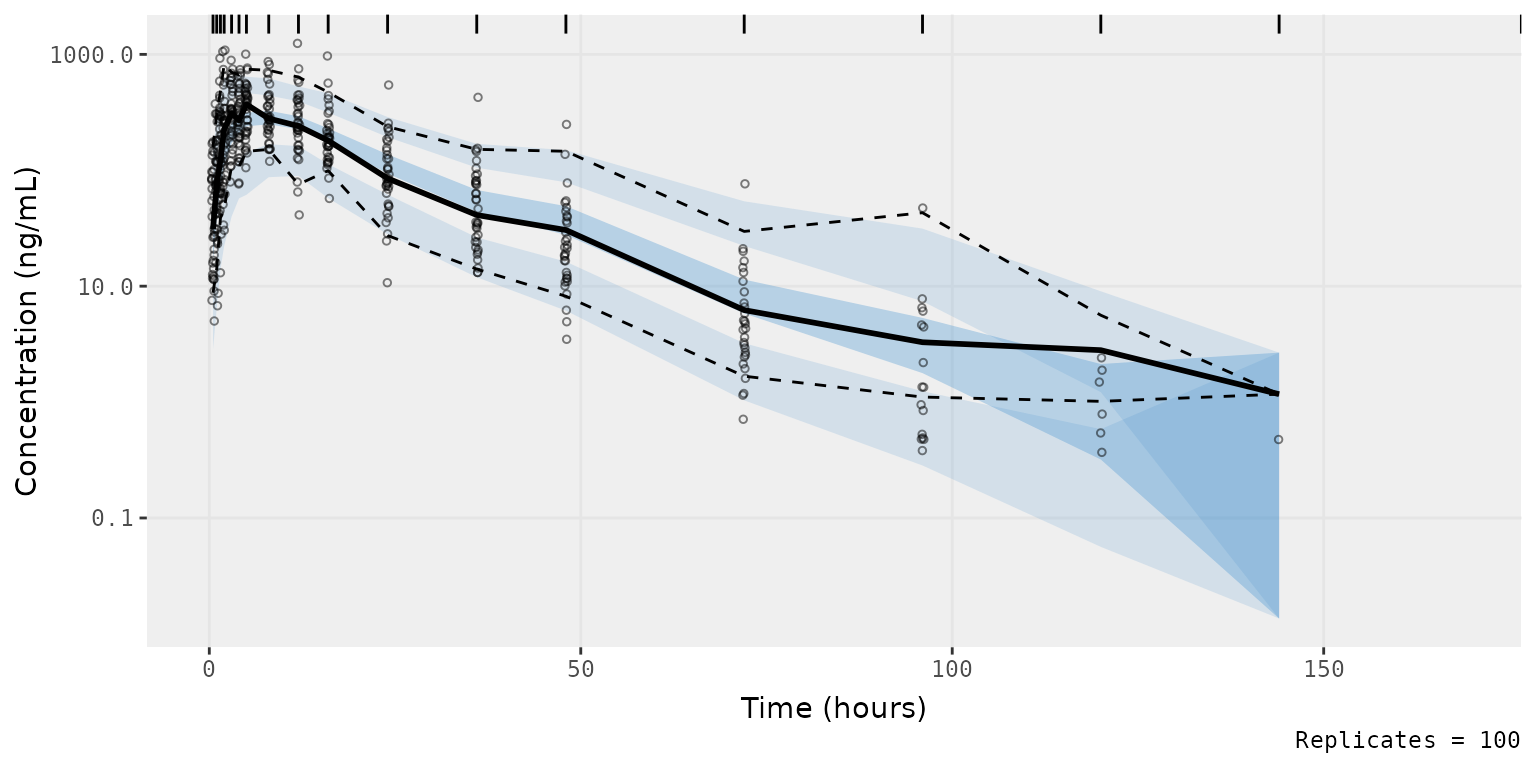
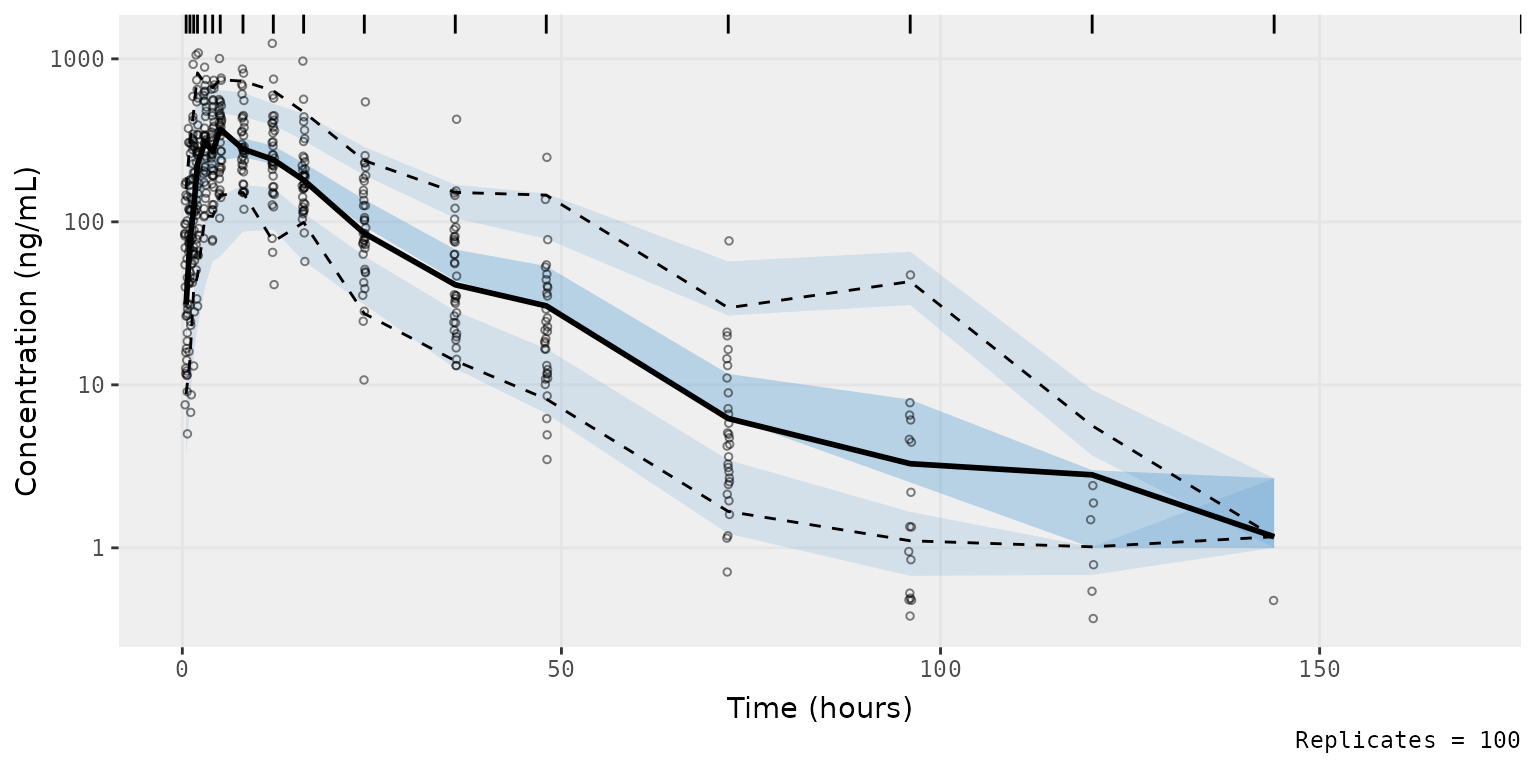
Deploying to gh-pages from @ ryancrass/pmxhelpr@53b15091019a067401276e631ab8a563660facfa 🚀

diff --git a/articles/vpc-obs-quant-blq-cens.html b/articles/vpc-obs-quant-blq-cens.html
@@ -5,12 +5,12 @@
 <meta charset="utf-8">
 <meta http-equiv="X-UA-Compatible" content="IE=edge">
 <meta name="viewport" content="width=device-width, initial-scale=1, shrink-to-fit=no">
-<title>VPC Plots with BLQ Censoring of Obseorved Quantiles • pmxhelpr</title>
+<title>VPC Plots with BLQ Censoring • pmxhelpr</title>
 <script src="../deps/jquery-3.6.0/jquery-3.6.0.min.js"></script><meta name="viewport" content="width=device-width, initial-scale=1, shrink-to-fit=no">
 <link href="../deps/bootstrap-5.3.1/bootstrap.min.css" rel="stylesheet">
 <script src="../deps/bootstrap-5.3.1/bootstrap.bundle.min.js"></script><link href="../deps/font-awesome-6.4.2/css/all.min.css" rel="stylesheet">
 <link href="../deps/font-awesome-6.4.2/css/v4-shims.min.css" rel="stylesheet">
-<script src="../deps/headroom-0.11.0/headroom.min.js"></script><script src="../deps/headroom-0.11.0/jQuery.headroom.min.js"></script><script src="../deps/bootstrap-toc-1.0.1/bootstrap-toc.min.js"></script><script src="../deps/clipboard.js-2.0.11/clipboard.min.js"></script><script src="../deps/search-1.0.0/autocomplete.jquery.min.js"></script><script src="../deps/search-1.0.0/fuse.min.js"></script><script src="../deps/search-1.0.0/mark.min.js"></script><!-- pkgdown --><script src="../pkgdown.js"></script><meta property="og:title" content="VPC Plots with BLQ Censoring of Obseorved Quantiles">
+<script src="../deps/headroom-0.11.0/headroom.min.js"></script><script src="../deps/headroom-0.11.0/jQuery.headroom.min.js"></script><script src="../deps/bootstrap-toc-1.0.1/bootstrap-toc.min.js"></script><script src="../deps/clipboard.js-2.0.11/clipboard.min.js"></script><script src="../deps/search-1.0.0/autocomplete.jquery.min.js"></script><script src="../deps/search-1.0.0/fuse.min.js"></script><script src="../deps/search-1.0.0/mark.min.js"></script><!-- pkgdown --><script src="../pkgdown.js"></script><meta property="og:title" content="VPC Plots with BLQ Censoring">
 </head>
 <body>
     <a href="#main" class="visually-hidden-focusable">Skip to contents</a>
@@ -20,7 +20,7 @@
 
     <a class="navbar-brand me-2" href="../index.html">pmxhelpr</a>
 
-    <small class="nav-text text-muted me-auto" data-bs-toggle="tooltip" data-bs-placement="bottom" title="">0.0.2.9004</small>
+    <small class="nav-text text-muted me-auto" data-bs-toggle="tooltip" data-bs-placement="bottom" title="">0.0.2.9005</small>
 
 
     <button class="navbar-toggler" type="button" data-bs-toggle="collapse" data-bs-target="#navbar" aria-controls="navbar" aria-expanded="false" aria-label="Toggle navigation">
@@ -34,7 +34,7 @@
   <button class="nav-link dropdown-toggle" type="button" id="dropdown-articles" data-bs-toggle="dropdown" aria-expanded="false" aria-haspopup="true">Articles</button>
   <ul class="dropdown-menu" aria-labelledby="dropdown-articles">
 <li><a class="dropdown-item" href="../articles/vpc-exact-bins.html">VPC Plots with Exact Bins</a></li>
-    <li><a class="dropdown-item" href="../articles/vpc-obs-quant-blq-cens.html">VPC Plots with BLQ Censoring of Obseorved Quantiles</a></li>
+    <li><a class="dropdown-item" href="../articles/vpc-obs-quant-blq-cens.html">VPC Plots with BLQ Censoring</a></li>
   </ul>
 </li>
 <li class="nav-item"><a class="nav-link" href="../news/index.html">Changelog</a></li>
@@ -56,7 +56,7 @@
 
 <div class="row">
   <main id="main" class="col-md-9"><div class="page-header">
-      <img src="../logo.png" class="logo" alt=""><h1>VPC Plots with BLQ Censoring of Obseorved Quantiles</h1>
+      <img src="../logo.png" class="logo" alt=""><h1>VPC Plots with BLQ Censoring</h1>
             
       
       <small class="dont-index">Source: <a href="https://github.com/ryancrass/pmxhelpr/blob/main/vignettes/vpc-obs-quant-blq-cens.Rmd" class="external-link"><code>vignettes/vpc-obs-quant-blq-cens.Rmd</code></a></small>
@@ -370,8 +370,9 @@ known to the pharmacometrician. Additionally, this method of accounting
 for the censoring of data below the LLOQ by specifying the
 <code>loq</code> argument should only be applied to Visual Predictive
 Checks (<code>pcvpc = FALSE</code>), not Prediction-corrected Visual
-Predictive Checks (<code>pcvpc = TRUE</code>), as noted in the
-documentation for the <code>vpc</code> package.</p>
+Predictive Checks (<code>pcvpc = TRUE</code>).</p>
+<p>If<code>loq</code> is specified with a<code>pcvpc = TRUE</code>, an
+error message will print from <code><a href="https://rdrr.io/pkg/vpc/man/vpc.html" class="external-link">vpc::vpc()</a></code>.</p>
 <div class="sourceCode" id="cb14"><pre class="downlit sourceCode r">
 <code class="sourceCode R"><span><span class="va">vpc_pc</span> <span class="op">&lt;-</span> <span class="fu"><a href="../reference/plot_vpc_exactbins.html">plot_vpc_exactbins</a></span><span class="op">(</span></span>
 <span>  sim <span class="op">=</span> <span class="va">simout</span>, </span>
@@ -382,8 +383,13 @@ documentation for the <code>vpc</code> package.</p>
 <span>  log_y <span class="op">=</span> <span class="cn">TRUE</span>,</span>
 <span>  xlab <span class="op">=</span> <span class="st">"Time (hours)"</span>,</span>
 <span>  ylab <span class="op">=</span> <span class="st">"Concentration (ng/mL)"</span>,</span>
-<span>  pcvpc <span class="op">=</span> <span class="cn">TRUE</span></span>
+<span>  pcvpc <span class="op">=</span> <span class="cn">TRUE</span>,</span>
+<span>  loq <span class="op">=</span> <span class="fl">1</span></span>
 <span><span class="op">)</span></span>
+<span><span class="co">#&gt; Joining with `by = join_by(NTIME)`</span></span>
+<span><span class="co">#&gt; Joining with `by = join_by(NTIME)`</span></span>
+<span><span class="co">#&gt; Prediction-correction cannot be used together with censored data (&lt;LLOQ or</span></span>
+<span><span class="co">#&gt; &gt;ULOQ). VPC plot will be shown for non-censored data only!</span></span>
 <span></span>
 <span><span class="va">vpc_pc</span></span></code></pre></div>
 <p><img src="vpc-obs-quant-blq-cens_files/figure-html/plot-vpc-pcvpc-1.png" width="768"></p>

diff --git a/news/index.html b/news/index.html
@@ -7,7 +7,7 @@
 
     <a class="navbar-brand me-2" href="../index.html">pmxhelpr</a>
 
-    <small class="nav-text text-muted me-auto" data-bs-toggle="tooltip" data-bs-placement="bottom" title="">0.0.2.9004</small>
+    <small class="nav-text text-muted me-auto" data-bs-toggle="tooltip" data-bs-placement="bottom" title="">0.0.2.9005</small>
 
 
     <button class="navbar-toggler" type="button" data-bs-toggle="collapse" data-bs-target="#navbar" aria-controls="navbar" aria-expanded="false" aria-label="Toggle navigation">
@@ -19,7 +19,7 @@
 <li class="nav-item dropdown">
   <button class="nav-link dropdown-toggle" type="button" id="dropdown-articles" data-bs-toggle="dropdown" aria-expanded="false" aria-haspopup="true">Articles</button>
   <ul class="dropdown-menu" aria-labelledby="dropdown-articles"><li><a class="dropdown-item" href="../articles/vpc-exact-bins.html">VPC Plots with Exact Bins</a></li>
-    <li><a class="dropdown-item" href="../articles/vpc-obs-quant-blq-cens.html">VPC Plots with BLQ Censoring of Obseorved Quantiles</a></li>
+    <li><a class="dropdown-item" href="../articles/vpc-obs-quant-blq-cens.html">VPC Plots with BLQ Censoring</a></li>
   </ul></li>
 <li class="active nav-item"><a class="nav-link" href="../news/index.html">Changelog</a></li>
       </ul><ul class="navbar-nav"><li class="nav-item"><form class="form-inline" role="search">
@@ -38,13 +38,14 @@
 
     <div class="section level2">
 <h2 class="pkg-version" data-toc-text="development version" id="pmxhelpr-development-version">pmxhelpr (development version)<a class="anchor" aria-label="anchor" href="#pmxhelpr-development-version"></a></h2>
-<ul><li>Additional functionality for <code>plot_vpc_exactbins</code>
+<ul><li>
+<p>Additional functionality for <code>plot_vpc_exactbins</code></p>
 <ul><li>
 <code>shown</code> argument added to facilitate customization of which layers are shown in the plot and standardize with new function <code>plot_legend</code>. Passed to <code>show</code> argument of <code><a href="https://rdrr.io/pkg/vpc/man/vpc.html" class="external-link">vpc::vpc()</a></code>
 </li>
 </ul></li>
-<li>
-<code>plot_legend</code> helper function to generate a legend for a VPC plot generated using <code><a href="../reference/plot_vpc_exactbins.html">plot_vpc_exactbins()</a></code>, which can be combined with the VPC plot using the <code>patchwork</code> package</li>
+<li><p><code>plot_legend</code> helper function to generate a legend for a VPC plot generated using <code><a href="../reference/plot_vpc_exactbins.html">plot_vpc_exactbins()</a></code>, which can be combined with the VPC plot using the <code>patchwork</code> package</p></li>
+<li><p><code>VPC Plots with BLQ Censoring</code> vignette demonstrating appropriate handling of data missing due to assay sensitivity (below the lower limit of quantification) using <code><a href="../reference/plot_vpc_exactbins.html">plot_vpc_exactbins()</a></code> and workflow leveraging <code>df_mrgsim_replicate</code>.</p></li>
 </ul></div>
     <div class="section level2">
 <h2 class="pkg-version" data-toc-text="0.0.2" id="pmxhelpr-002">pmxhelpr 0.0.2<a class="anchor" aria-label="anchor" href="#pmxhelpr-002"></a></h2>
@@ -57,16 +58,12 @@
 </ul></div>
     <div class="section level2">
 <h2 class="pkg-version" data-toc-text="0.0.1" id="pmxhelpr-001">pmxhelpr 0.0.1<a class="anchor" aria-label="anchor" href="#pmxhelpr-001"></a></h2>
-<ul><li>
-<code>data_sad</code> NONMEM and mrgsolve analysis-ready dataset for a hypothetical SAD study with assessment of food effect.</li>
-<li>
-<code>model</code> mrgsolve model file (class <code>mrgmod</code>) in the internal pmxhelpr model library .</li>
-<li>
-<code>model_load</code> function to load internal models from the pmxhelpr model library.</li>
-<li>
-<code>df_mrgsim_replicate</code> mrgsim wrapper function to run a simulation that replicates the input dataset multiple times, intended for application to generating Visual Predictive Check (VPC) simulation-based model diagnostics.</li>
-<li>
-<code>plot_vpc_exactbins</code> vpc wrapper function to using an exact time binning variable in the input dataset (e.g. nominal time) with plotting of observed data points using actual time.</li>
+<ul><li><p><code>data_sad</code> NONMEM and mrgsolve analysis-ready dataset for a hypothetical SAD study with assessment of food effect.</p></li>
+<li><p><code>model</code> mrgsolve model file (class <code>mrgmod</code>) in the internal pmxhelpr model library .</p></li>
+<li><p><code>model_load</code> function to load internal models from the pmxhelpr model library.</p></li>
+<li><p><code>df_mrgsim_replicate</code> mrgsim wrapper function to run a simulation that replicates the input dataset multiple times, intended for application to generating Visual Predictive Check (VPC) simulation-based model diagnostics.</p></li>
+<li><p><code>plot_vpc_exactbins</code> vpc wrapper function to using an exact time binning variable in the input dataset (e.g. nominal time) with plotting of observed data points using actual time.</p></li>
+<li><p><code>VPC Plots with Exact Bins</code> vignette demostrating use case for <code><a href="../reference/plot_vpc_exactbins.html">plot_vpc_exactbins()</a></code> and workflow leveraging <code>df_mrgsim_replicate</code>.</p></li>
 </ul></div>
   </main><aside class="col-md-3"><nav id="toc" aria-label="Table of contents"><h2>On this page</h2>
     </nav></aside></div>

diff --git a/articles/index.html b/articles/index.html
@@ -7,7 +7,7 @@
 
     <a class="navbar-brand me-2" href="../index.html">pmxhelpr</a>
 
-    <small class="nav-text text-muted me-auto" data-bs-toggle="tooltip" data-bs-placement="bottom" title="">0.0.2.9004</small>
+    <small class="nav-text text-muted me-auto" data-bs-toggle="tooltip" data-bs-placement="bottom" title="">0.0.2.9005</small>
 
 
     <button class="navbar-toggler" type="button" data-bs-toggle="collapse" data-bs-target="#navbar" aria-controls="navbar" aria-expanded="false" aria-label="Toggle navigation">
@@ -19,7 +19,7 @@
 <li class="nav-item dropdown">
   <button class="nav-link dropdown-toggle" type="button" id="dropdown-articles" data-bs-toggle="dropdown" aria-expanded="false" aria-haspopup="true">Articles</button>
   <ul class="dropdown-menu" aria-labelledby="dropdown-articles"><li><a class="dropdown-item" href="../articles/vpc-exact-bins.html">VPC Plots with Exact Bins</a></li>
-    <li><a class="dropdown-item" href="../articles/vpc-obs-quant-blq-cens.html">VPC Plots with BLQ Censoring of Obseorved Quantiles</a></li>
+    <li><a class="dropdown-item" href="../articles/vpc-obs-quant-blq-cens.html">VPC Plots with BLQ Censoring</a></li>
   </ul></li>
 <li class="nav-item"><a class="nav-link" href="../news/index.html">Changelog</a></li>
       </ul><ul class="navbar-nav"><li class="nav-item"><form class="form-inline" role="search">
@@ -41,7 +41,7 @@
 
       <dl><dt><a href="vpc-exact-bins.html">VPC Plots with Exact Bins</a></dt>
         <dd>
-        </dd><dt><a href="vpc-obs-quant-blq-cens.html">VPC Plots with BLQ Censoring of Obseorved Quantiles</a></dt>
+        </dd><dt><a href="vpc-obs-quant-blq-cens.html">VPC Plots with BLQ Censoring</a></dt>
         <dd>
       </dd></dl></div>
   </main></div>

diff --git a/reference/df_addpred.html b/reference/df_addpred.html
@@ -11,7 +11,7 @@ a data.frame with the addition of a new variable (PRED)."><meta property="og:ima
 
     <a class="navbar-brand me-2" href="../index.html">pmxhelpr</a>
 
-    <small class="nav-text text-muted me-auto" data-bs-toggle="tooltip" data-bs-placement="bottom" title="">0.0.2.9004</small>
+    <small class="nav-text text-muted me-auto" data-bs-toggle="tooltip" data-bs-placement="bottom" title="">0.0.2.9005</small>
 
 
     <button class="navbar-toggler" type="button" data-bs-toggle="collapse" data-bs-target="#navbar" aria-controls="navbar" aria-expanded="false" aria-label="Toggle navigation">
@@ -23,7 +23,7 @@ a data.frame with the addition of a new variable (PRED)."><meta property="og:ima
 <li class="nav-item dropdown">
   <button class="nav-link dropdown-toggle" type="button" id="dropdown-articles" data-bs-toggle="dropdown" aria-expanded="false" aria-haspopup="true">Articles</button>
   <ul class="dropdown-menu" aria-labelledby="dropdown-articles"><li><a class="dropdown-item" href="../articles/vpc-exact-bins.html">VPC Plots with Exact Bins</a></li>
-    <li><a class="dropdown-item" href="../articles/vpc-obs-quant-blq-cens.html">VPC Plots with BLQ Censoring of Obseorved Quantiles</a></li>
+    <li><a class="dropdown-item" href="../articles/vpc-obs-quant-blq-cens.html">VPC Plots with BLQ Censoring</a></li>
   </ul></li>
 <li class="nav-item"><a class="nav-link" href="../news/index.html">Changelog</a></li>
       </ul><ul class="navbar-nav"><li class="nav-item"><form class="form-inline" role="search">

diff --git a/reference/df_mrgsim_replicate.html b/reference/df_mrgsim_replicate.html
@@ -9,7 +9,7 @@ that returns a data.frame containing replicates iterations of data"><meta proper
 
     <a class="navbar-brand me-2" href="../index.html">pmxhelpr</a>
 
-    <small class="nav-text text-muted me-auto" data-bs-toggle="tooltip" data-bs-placement="bottom" title="">0.0.2.9004</small>
+    <small class="nav-text text-muted me-auto" data-bs-toggle="tooltip" data-bs-placement="bottom" title="">0.0.2.9005</small>
 
 
     <button class="navbar-toggler" type="button" data-bs-toggle="collapse" data-bs-target="#navbar" aria-controls="navbar" aria-expanded="false" aria-label="Toggle navigation">
@@ -21,7 +21,7 @@ that returns a data.frame containing replicates iterations of data"><meta proper
 <li class="nav-item dropdown">
   <button class="nav-link dropdown-toggle" type="button" id="dropdown-articles" data-bs-toggle="dropdown" aria-expanded="false" aria-haspopup="true">Articles</button>
   <ul class="dropdown-menu" aria-labelledby="dropdown-articles"><li><a class="dropdown-item" href="../articles/vpc-exact-bins.html">VPC Plots with Exact Bins</a></li>
-    <li><a class="dropdown-item" href="../articles/vpc-obs-quant-blq-cens.html">VPC Plots with BLQ Censoring of Obseorved Quantiles</a></li>
+    <li><a class="dropdown-item" href="../articles/vpc-obs-quant-blq-cens.html">VPC Plots with BLQ Censoring</a></li>
   </ul></li>
 <li class="nav-item"><a class="nav-link" href="../news/index.html">Changelog</a></li>
       </ul><ul class="navbar-nav"><li class="nav-item"><form class="form-inline" role="search">

diff --git a/reference/df_nobsbin.html b/reference/df_nobsbin.html
@@ -9,7 +9,7 @@ and non-missing observations in exact bins."><meta property="og:image" content="
 
     <a class="navbar-brand me-2" href="../index.html">pmxhelpr</a>
 
-    <small class="nav-text text-muted me-auto" data-bs-toggle="tooltip" data-bs-placement="bottom" title="">0.0.2.9004</small>
+    <small class="nav-text text-muted me-auto" data-bs-toggle="tooltip" data-bs-placement="bottom" title="">0.0.2.9005</small>
 
 
     <button class="navbar-toggler" type="button" data-bs-toggle="collapse" data-bs-target="#navbar" aria-controls="navbar" aria-expanded="false" aria-label="Toggle navigation">
@@ -21,7 +21,7 @@ and non-missing observations in exact bins."><meta property="og:image" content="
 <li class="nav-item dropdown">
   <button class="nav-link dropdown-toggle" type="button" id="dropdown-articles" data-bs-toggle="dropdown" aria-expanded="false" aria-haspopup="true">Articles</button>
   <ul class="dropdown-menu" aria-labelledby="dropdown-articles"><li><a class="dropdown-item" href="../articles/vpc-exact-bins.html">VPC Plots with Exact Bins</a></li>
-    <li><a class="dropdown-item" href="../articles/vpc-obs-quant-blq-cens.html">VPC Plots with BLQ Censoring of Obseorved Quantiles</a></li>
+    <li><a class="dropdown-item" href="../articles/vpc-obs-quant-blq-cens.html">VPC Plots with BLQ Censoring</a></li>
   </ul></li>
 <li class="nav-item"><a class="nav-link" href="../news/index.html">Changelog</a></li>
       </ul><ul class="navbar-nav"><li class="nav-item"><form class="form-inline" role="search">

diff --git a/reference/df_pcdv.html b/reference/df_pcdv.html
@@ -9,7 +9,7 @@ of observed or simulated depedent variables."><meta property="og:image" content=
 
     <a class="navbar-brand me-2" href="../index.html">pmxhelpr</a>
 
-    <small class="nav-text text-muted me-auto" data-bs-toggle="tooltip" data-bs-placement="bottom" title="">0.0.2.9004</small>
+    <small class="nav-text text-muted me-auto" data-bs-toggle="tooltip" data-bs-placement="bottom" title="">0.0.2.9005</small>
 
 
     <button class="navbar-toggler" type="button" data-bs-toggle="collapse" data-bs-target="#navbar" aria-controls="navbar" aria-expanded="false" aria-label="Toggle navigation">
@@ -21,7 +21,7 @@ of observed or simulated depedent variables."><meta property="og:image" content=
 <li class="nav-item dropdown">
   <button class="nav-link dropdown-toggle" type="button" id="dropdown-articles" data-bs-toggle="dropdown" aria-expanded="false" aria-haspopup="true">Articles</button>
   <ul class="dropdown-menu" aria-labelledby="dropdown-articles"><li><a class="dropdown-item" href="../articles/vpc-exact-bins.html">VPC Plots with Exact Bins</a></li>
-    <li><a class="dropdown-item" href="../articles/vpc-obs-quant-blq-cens.html">VPC Plots with BLQ Censoring of Obseorved Quantiles</a></li>
+    <li><a class="dropdown-item" href="../articles/vpc-obs-quant-blq-cens.html">VPC Plots with BLQ Censoring</a></li>
   </ul></li>
 <li class="nav-item"><a class="nav-link" href="../news/index.html">Changelog</a></li>
       </ul><ul class="navbar-nav"><li class="nav-item"><form class="form-inline" role="search">

diff --git a/reference/model_mread_load.html b/reference/model_mread_load.html
@@ -9,7 +9,7 @@ model library in pmxhelpr"><meta property="og:image" content="https://ryancrass.
 
     <a class="navbar-brand me-2" href="../index.html">pmxhelpr</a>
 
-    <small class="nav-text text-muted me-auto" data-bs-toggle="tooltip" data-bs-placement="bottom" title="">0.0.2.9004</small>
+    <small class="nav-text text-muted me-auto" data-bs-toggle="tooltip" data-bs-placement="bottom" title="">0.0.2.9005</small>
 
 
     <button class="navbar-toggler" type="button" data-bs-toggle="collapse" data-bs-target="#navbar" aria-controls="navbar" aria-expanded="false" aria-label="Toggle navigation">
@@ -21,7 +21,7 @@ model library in pmxhelpr"><meta property="og:image" content="https://ryancrass.
 <li class="nav-item dropdown">
   <button class="nav-link dropdown-toggle" type="button" id="dropdown-articles" data-bs-toggle="dropdown" aria-expanded="false" aria-haspopup="true">Articles</button>
   <ul class="dropdown-menu" aria-labelledby="dropdown-articles"><li><a class="dropdown-item" href="../articles/vpc-exact-bins.html">VPC Plots with Exact Bins</a></li>
-    <li><a class="dropdown-item" href="../articles/vpc-obs-quant-blq-cens.html">VPC Plots with BLQ Censoring of Obseorved Quantiles</a></li>
+    <li><a class="dropdown-item" href="../articles/vpc-obs-quant-blq-cens.html">VPC Plots with BLQ Censoring</a></li>
   </ul></li>
 <li class="nav-item"><a class="nav-link" href="../news/index.html">Changelog</a></li>
       </ul><ul class="navbar-nav"><li class="nav-item"><form class="form-inline" role="search">

diff --git a/reference/plot_vpc_exactbins.html b/reference/plot_vpc_exactbins.html
@@ -9,7 +9,7 @@ that returns a ggplot2 object."><meta property="og:image" content="https://ryanc
 
     <a class="navbar-brand me-2" href="../index.html">pmxhelpr</a>
 
-    <small class="nav-text text-muted me-auto" data-bs-toggle="tooltip" data-bs-placement="bottom" title="">0.0.2.9004</small>
+    <small class="nav-text text-muted me-auto" data-bs-toggle="tooltip" data-bs-placement="bottom" title="">0.0.2.9005</small>
 
 
     <button class="navbar-toggler" type="button" data-bs-toggle="collapse" data-bs-target="#navbar" aria-controls="navbar" aria-expanded="false" aria-label="Toggle navigation">
@@ -21,7 +21,7 @@ that returns a ggplot2 object."><meta property="og:image" content="https://ryanc
 <li class="nav-item dropdown">
   <button class="nav-link dropdown-toggle" type="button" id="dropdown-articles" data-bs-toggle="dropdown" aria-expanded="false" aria-haspopup="true">Articles</button>
   <ul class="dropdown-menu" aria-labelledby="dropdown-articles"><li><a class="dropdown-item" href="../articles/vpc-exact-bins.html">VPC Plots with Exact Bins</a></li>
-    <li><a class="dropdown-item" href="../articles/vpc-obs-quant-blq-cens.html">VPC Plots with BLQ Censoring of Obseorved Quantiles</a></li>
+    <li><a class="dropdown-item" href="../articles/vpc-obs-quant-blq-cens.html">VPC Plots with BLQ Censoring</a></li>
   </ul></li>
 <li class="nav-item"><a class="nav-link" href="../news/index.html">Changelog</a></li>
       </ul><ul class="navbar-nav"><li class="nav-item"><form class="form-inline" role="search">

diff --git a/404.html b/404.html
@@ -21,7 +21,7 @@
 
     <a class="navbar-brand me-2" href="https://ryancrass.github.io/pmxhelpr/index.html">pmxhelpr</a>
 
-    <small class="nav-text text-muted me-auto" data-bs-toggle="tooltip" data-bs-placement="bottom" title="">0.0.2.9004</small>
+    <small class="nav-text text-muted me-auto" data-bs-toggle="tooltip" data-bs-placement="bottom" title="">0.0.2.9005</small>
 
 
     <button class="navbar-toggler" type="button" data-bs-toggle="collapse" data-bs-target="#navbar" aria-controls="navbar" aria-expanded="false" aria-label="Toggle navigation">
@@ -35,7 +35,7 @@
   <button class="nav-link dropdown-toggle" type="button" id="dropdown-articles" data-bs-toggle="dropdown" aria-expanded="false" aria-haspopup="true">Articles</button>
   <ul class="dropdown-menu" aria-labelledby="dropdown-articles">
 <li><a class="dropdown-item" href="https://ryancrass.github.io/pmxhelpr/articles/vpc-exact-bins.html">VPC Plots with Exact Bins</a></li>
-    <li><a class="dropdown-item" href="https://ryancrass.github.io/pmxhelpr/articles/vpc-obs-quant-blq-cens.html">VPC Plots with BLQ Censoring of Obseorved Quantiles</a></li>
+    <li><a class="dropdown-item" href="https://ryancrass.github.io/pmxhelpr/articles/vpc-obs-quant-blq-cens.html">VPC Plots with BLQ Censoring</a></li>
   </ul>
 </li>
 <li class="nav-item"><a class="nav-link" href="https://ryancrass.github.io/pmxhelpr/news/index.html">Changelog</a></li>

diff --git a/reference/data_sad.html b/reference/data_sad.html
@@ -7,7 +7,7 @@
 
     <a class="navbar-brand me-2" href="../index.html">pmxhelpr</a>
 
-    <small class="nav-text text-muted me-auto" data-bs-toggle="tooltip" data-bs-placement="bottom" title="">0.0.2.9004</small>
+    <small class="nav-text text-muted me-auto" data-bs-toggle="tooltip" data-bs-placement="bottom" title="">0.0.2.9005</small>
 
 
     <button class="navbar-toggler" type="button" data-bs-toggle="collapse" data-bs-target="#navbar" aria-controls="navbar" aria-expanded="false" aria-label="Toggle navigation">
@@ -19,7 +19,7 @@
 <li class="nav-item dropdown">
   <button class="nav-link dropdown-toggle" type="button" id="dropdown-articles" data-bs-toggle="dropdown" aria-expanded="false" aria-haspopup="true">Articles</button>
   <ul class="dropdown-menu" aria-labelledby="dropdown-articles"><li><a class="dropdown-item" href="../articles/vpc-exact-bins.html">VPC Plots with Exact Bins</a></li>
-    <li><a class="dropdown-item" href="../articles/vpc-obs-quant-blq-cens.html">VPC Plots with BLQ Censoring of Obseorved Quantiles</a></li>
+    <li><a class="dropdown-item" href="../articles/vpc-obs-quant-blq-cens.html">VPC Plots with BLQ Censoring</a></li>
   </ul></li>
 <li class="nav-item"><a class="nav-link" href="../news/index.html">Changelog</a></li>
       </ul><ul class="navbar-nav"><li class="nav-item"><form class="form-inline" role="search">

diff --git a/reference/index.html b/reference/index.html
@@ -7,7 +7,7 @@
 
     <a class="navbar-brand me-2" href="../index.html">pmxhelpr</a>
 
-    <small class="nav-text text-muted me-auto" data-bs-toggle="tooltip" data-bs-placement="bottom" title="">0.0.2.9004</small>
+    <small class="nav-text text-muted me-auto" data-bs-toggle="tooltip" data-bs-placement="bottom" title="">0.0.2.9005</small>
 
 
     <button class="navbar-toggler" type="button" data-bs-toggle="collapse" data-bs-target="#navbar" aria-controls="navbar" aria-expanded="false" aria-label="Toggle navigation">
@@ -19,7 +19,7 @@
 <li class="nav-item dropdown">
   <button class="nav-link dropdown-toggle" type="button" id="dropdown-articles" data-bs-toggle="dropdown" aria-expanded="false" aria-haspopup="true">Articles</button>
   <ul class="dropdown-menu" aria-labelledby="dropdown-articles"><li><a class="dropdown-item" href="../articles/vpc-exact-bins.html">VPC Plots with Exact Bins</a></li>
-    <li><a class="dropdown-item" href="../articles/vpc-obs-quant-blq-cens.html">VPC Plots with BLQ Censoring of Obseorved Quantiles</a></li>
+    <li><a class="dropdown-item" href="../articles/vpc-obs-quant-blq-cens.html">VPC Plots with BLQ Censoring</a></li>
   </ul></li>
 <li class="nav-item"><a class="nav-link" href="../news/index.html">Changelog</a></li>
       </ul><ul class="navbar-nav"><li class="nav-item"><form class="form-inline" role="search">
